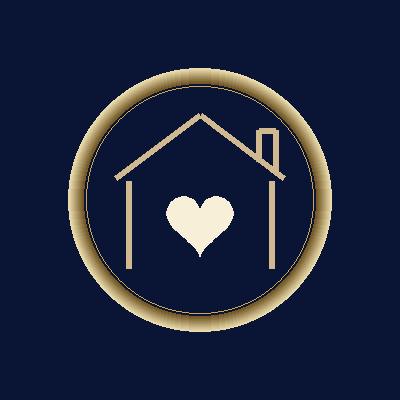
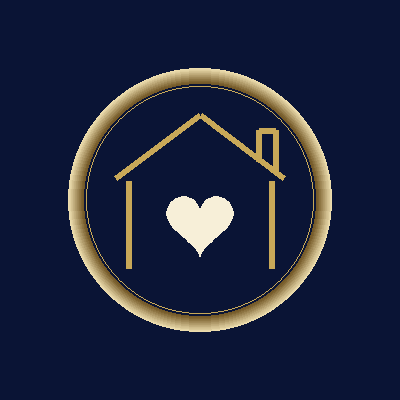
Logotipo corregido: casa dorada en todos los recursos graficos y en las marcas de texto

Changed region(s): [[0.27, 0.27, 0.6, 0.69], [0.6, 0.3, 0.72, 0.69]]

diff --git a/frontend/app/registro/page.tsx b/frontend/app/registro/page.tsx
@@ -4,6 +4,7 @@ import type { Metadata } from "next";
 import { getCurrentUser } from "@/lib/auth.server";
 import { googleConfigurado } from "@/lib/auth-google.server";
 import BotonGoogle from "@/components/boton-google";
+import MarcaLogo from "@/components/marca-logo";
 
 export const dynamic = "force-dynamic";
 export const metadata: Metadata = { title: "Crear cuenta — Hestiat", robots: { index: false } };
@@ -27,7 +28,7 @@ export default async function Registro({
   return (
     <main className="acceso">
       <div className="acceso-tarjeta">
-        <p className="acceso-marca">hestiat</p>
+        <p className="acceso-marca"><MarcaLogo /></p>
         <h1>Crear tu cuenta</h1>
         <p className="acceso-sub">
           Guarda tus favoritos, solicita reservas y gestiona tus alojamientos. Es gratis.

diff --git a/frontend/app/login/page.tsx b/frontend/app/login/page.tsx
@@ -4,6 +4,7 @@ import Link from "next/link";
 import { getCurrentUser } from "@/lib/auth.server";
 import { googleConfigurado, retornoValido } from "@/lib/auth-google.server";
 import BotonGoogle from "@/components/boton-google";
+import MarcaLogo from "@/components/marca-logo";
 
 export const dynamic = "force-dynamic";
 export const metadata: Metadata = { title: "Entrar — Hestiat", robots: { index: false } };
@@ -42,7 +43,7 @@ export default async function Login({
   return (
     <main className="acceso">
       <div className="acceso-tarjeta">
-        <p className="acceso-marca">hestiat</p>
+        <p className="acceso-marca"><MarcaLogo /></p>
         <h1>Bienvenido a Hestiat</h1>
         <p className="acceso-sub">Entra para gestionar tus reservas, tus favoritos y tus alojamientos.</p>
 

diff --git a/frontend/app/host/layout.tsx b/frontend/app/host/layout.tsx
@@ -2,6 +2,7 @@ import type { ReactNode } from "react";
 import Link from "next/link";
 import { redirect } from "next/navigation";
 import { requireHost } from "@/lib/auth.server";
+import MarcaLogo from "@/components/marca-logo";
 
 export const dynamic = "force-dynamic";
 
@@ -19,7 +20,7 @@ export default async function HostLayout({ children }: { children: ReactNode }) 
   return (
     <div className="admin">
       <aside className="admin-nav">
-        <p className="admin-marca">Panel del anfitrión</p>
+        <p className="admin-marca"><MarcaLogo /> <span>Panel del anfitrión</span></p>
         <nav>
           <Link href="/host">Mis alojamientos</Link>
           <Link href="/host/reservas">Reservas</Link>

diff --git a/frontend/app/admin/layout.tsx b/frontend/app/admin/layout.tsx
@@ -2,6 +2,7 @@ import type { ReactNode } from "react";
 import Link from "next/link";
 import { redirect } from "next/navigation";
 import { requireAdmin } from "@/lib/auth.server";
+import MarcaLogo from "@/components/marca-logo";
 
 export const dynamic = "force-dynamic";
 
@@ -34,7 +35,7 @@ export default async function AdminLayout({ children }: { children: ReactNode })
   return (
     <div className="admin">
       <aside className="admin-nav">
-        <p className="admin-marca">Administración</p>
+        <p className="admin-marca"><MarcaLogo /> <span>Administración</span></p>
         <nav>
           {secciones.map(([href, etiqueta]) => (
             <Link key={href} href={href}>

diff --git a/frontend/app/layout.tsx b/frontend/app/layout.tsx
@@ -388,6 +388,7 @@ footer a:hover{color:var(--hestiat-primary-texto)}
 .cab-in{display:flex;align-items:center;gap:16px;min-height:72px;padding:8px 18px;flex-wrap:nowrap}
 .marca{font-weight:700;letter-spacing:-.02em;font-size:21px;color:var(--ink);font-family:var(--fuente-titulo);display:flex;align-items:center;gap:7px;white-space:nowrap}
 .marca-logo{height:clamp(22px,4.5vw,30px);width:auto;display:block}
+.marca-logo-mini{height:24px;width:auto;max-width:100%;display:inline-block;vertical-align:middle}
 .marca-casa{font-size:18px}
 .cab-busca{flex:1 1 auto;max-width:620px;min-width:0}
 .cab-nav{display:flex;gap:8px;align-items:center;flex:0 0 auto}

diff --git a/frontend/components/marca-logo.tsx b/frontend/components/marca-logo.tsx
@@ -1,0 +1,14 @@
+/**
+ * LA MARCA, EN GRÁFICO.
+ *
+ * Donde antes iba la palabra «hestiat» escrita como texto, va el logotipo. Es el mismo archivo que
+ * usa la cabecera, así que la marca está en un solo sitio y no hay dos versiones que se puedan
+ * desincronizar. El texto alternativo nombra la imagen; el tamaño se ajusta con la clase, no con
+ * estilos sueltos.
+ */
+export default function MarcaLogo({ className = "marca-logo-mini" }: { className?: string }) {
+  return (
+    // eslint-disable-next-line @next/next/no-img-element
+    <img src="/marca/logotipo-web.svg" alt="Hestiat" className={className} width="64" height="24" />
+  );
+}
